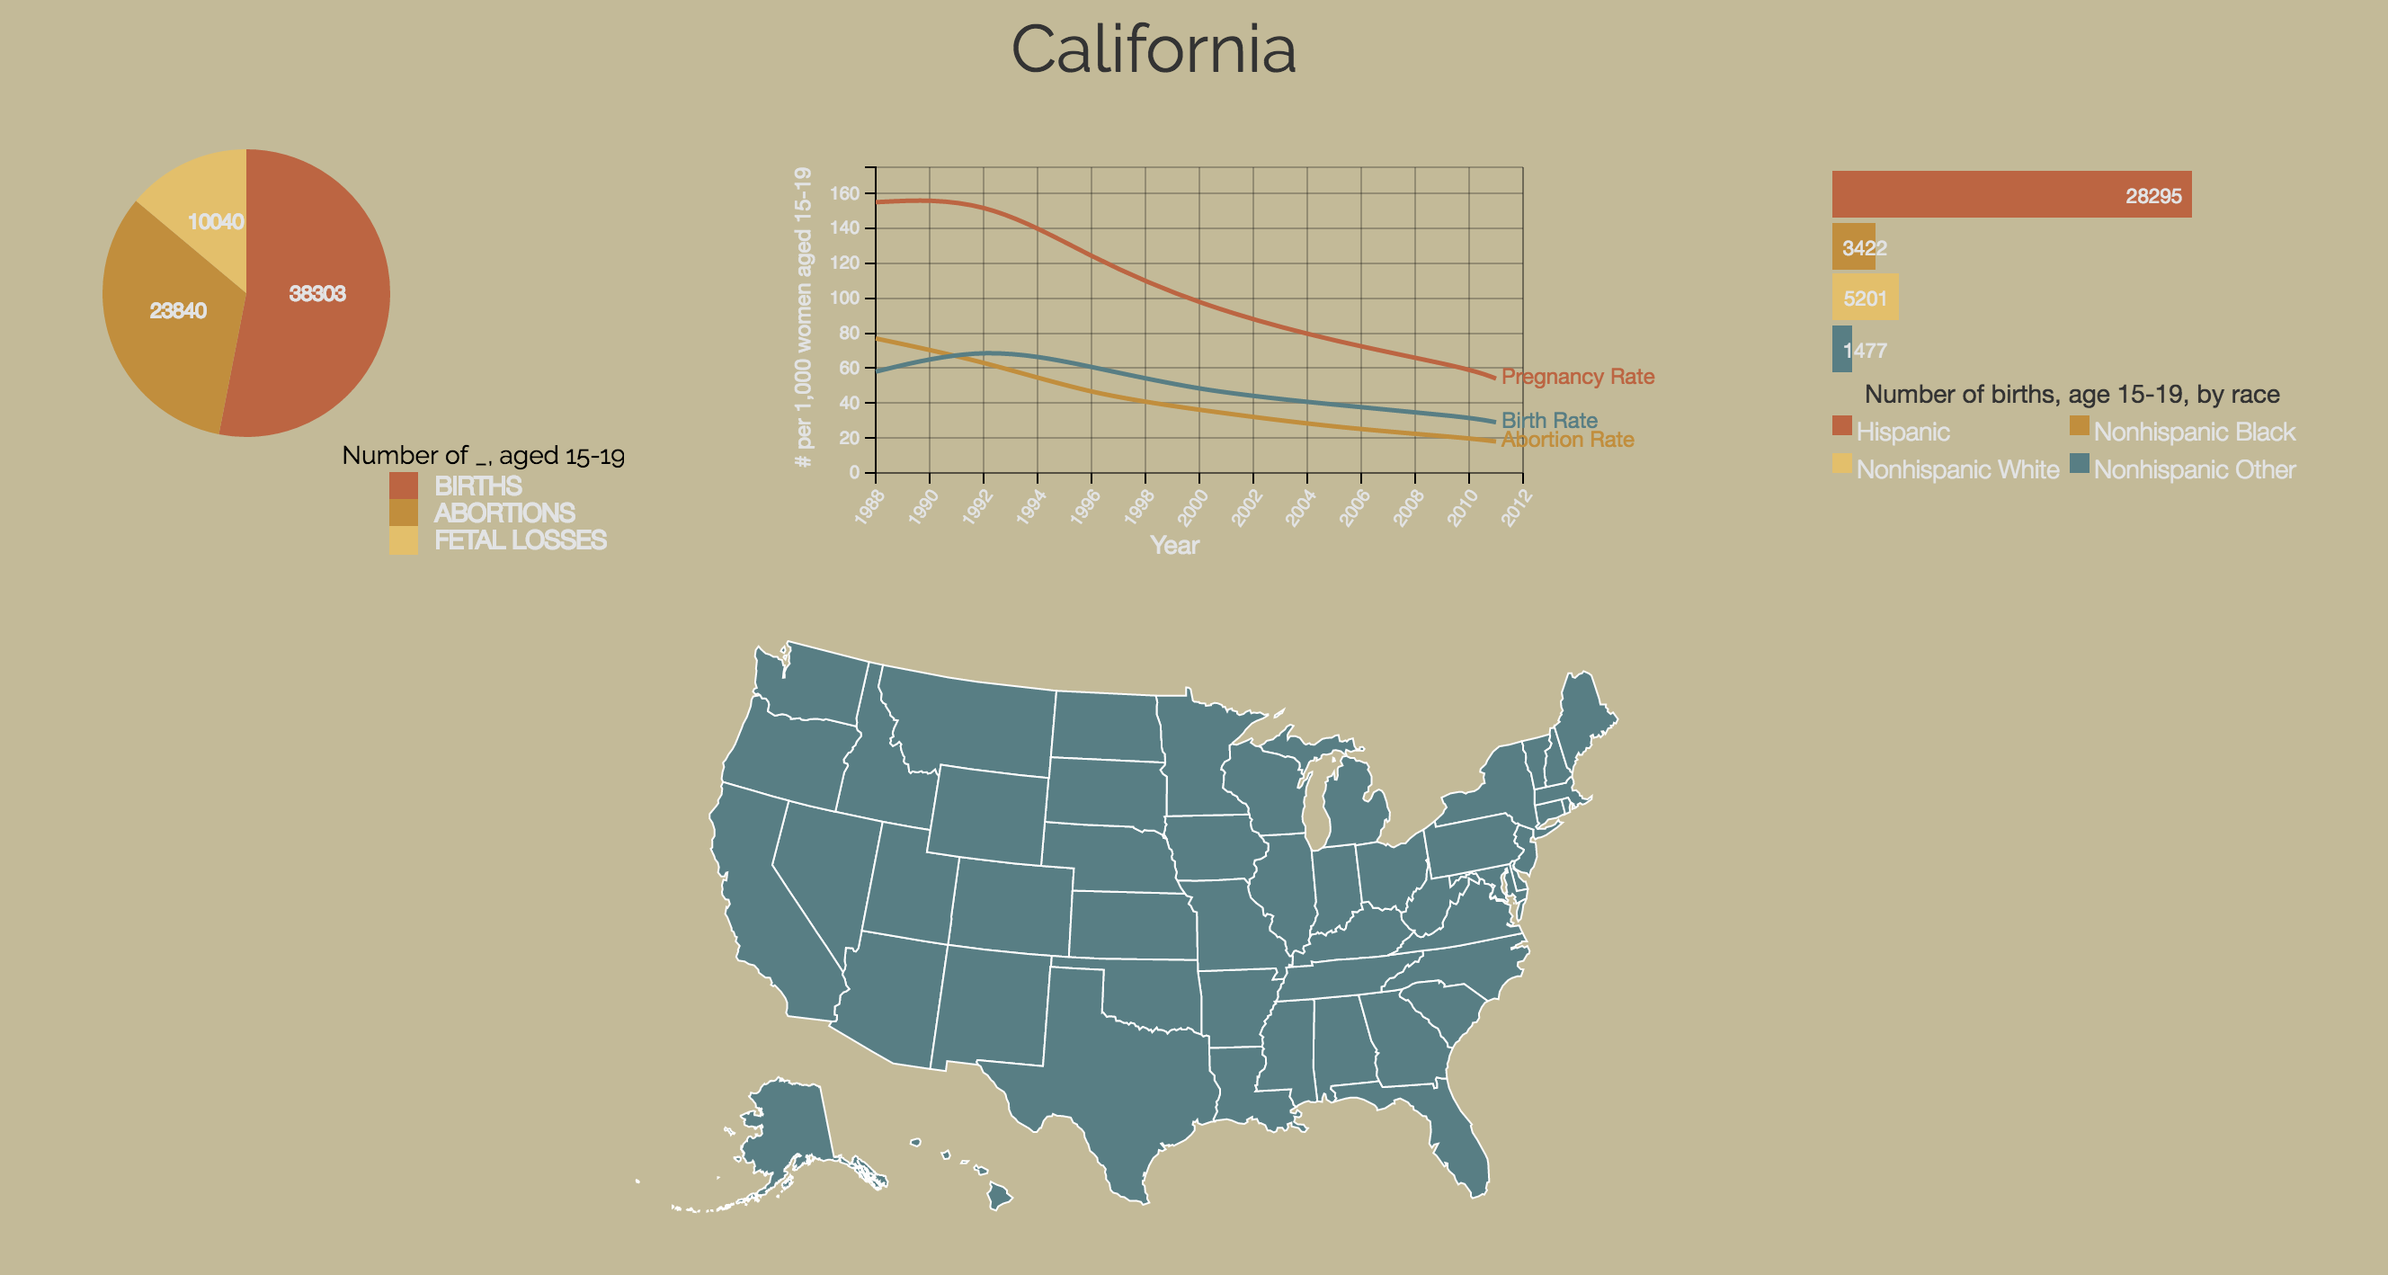
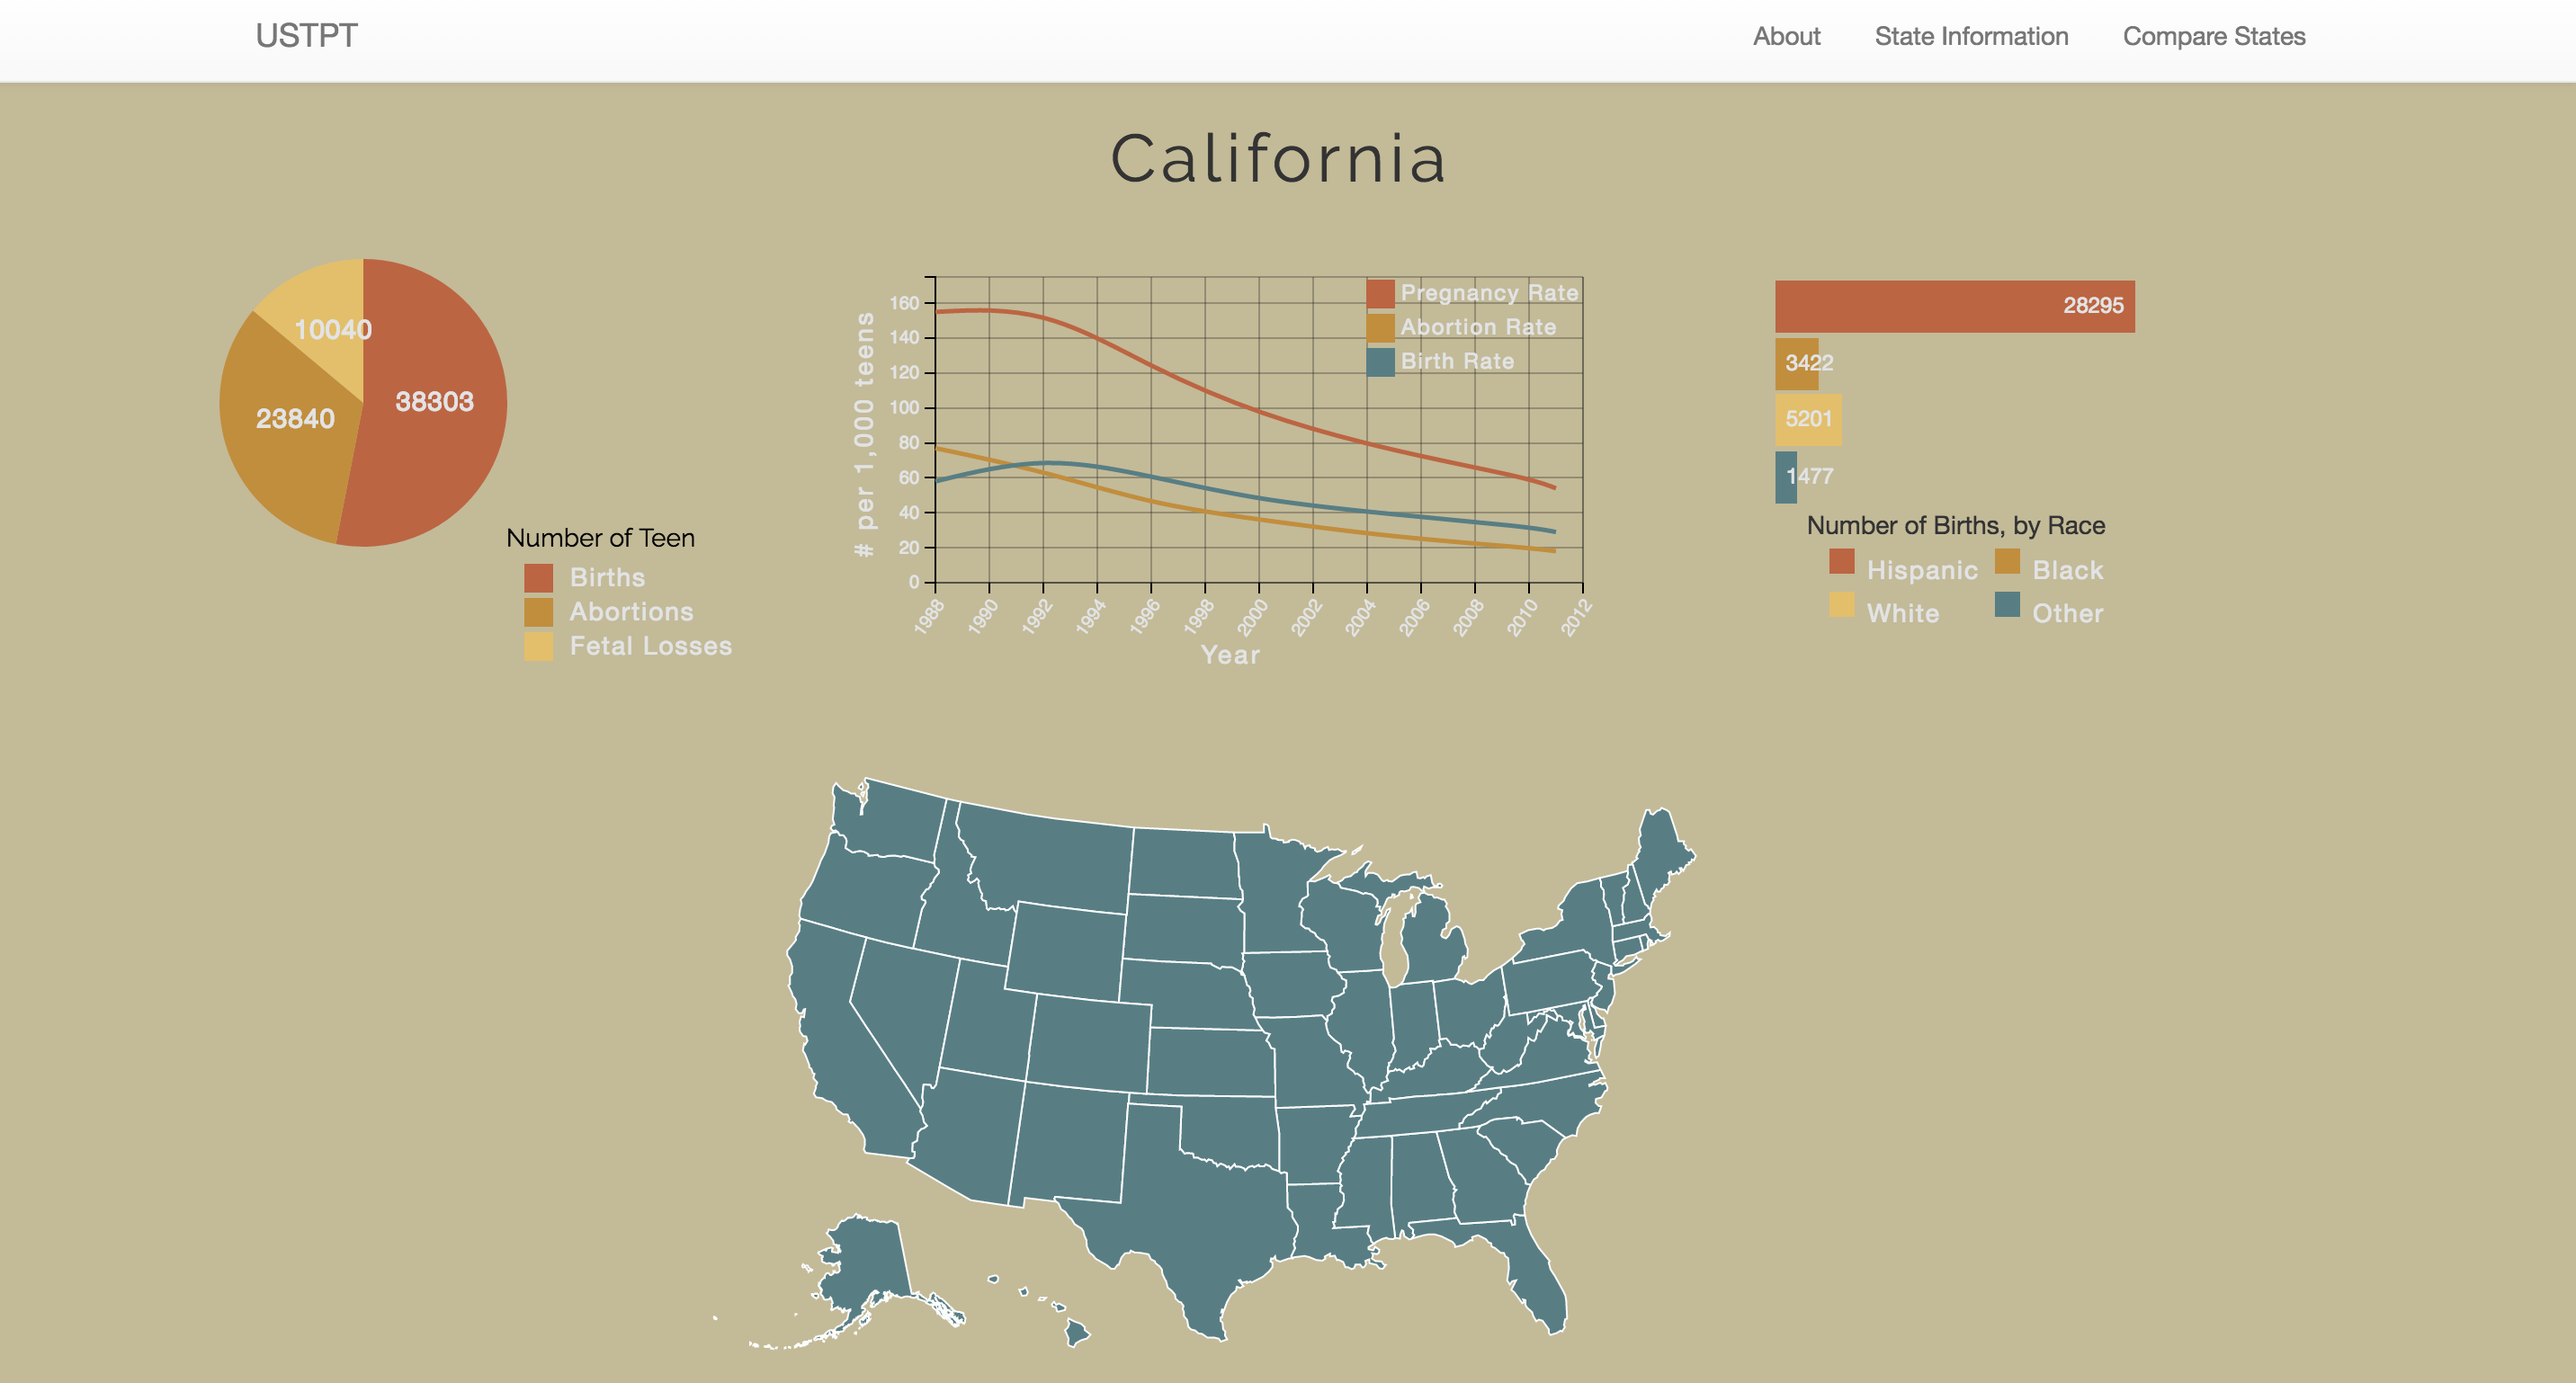
new screen shots for better UI

diff --git a/public/stylesheets/style.css b/public/stylesheets/style.css
@@ -37,7 +37,7 @@ html, body {
 /*US Maps*/
 #mapOne {
   width: 100%;
-  margin-top: -15px;
+  /*margin-top: -15px;*/
   padding-bottom: 20%; 
   padding-right: 10%;
 }
@@ -45,6 +45,8 @@ html, body {
 #mapOne .datamap{
   position: relative;
   right: 30px;
+  margin-left: -65px;
+
 }
 
 
@@ -117,6 +119,7 @@ html, body {
 #barChart{
   margin-top: 30px;
   margin-left: 160px;
+  margin-bottom: 30px;
 }
 
 .barValue{
